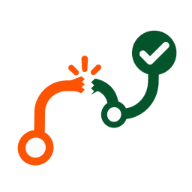
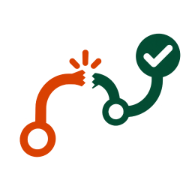
chore: refresh dbt rescue brand assets

diff --git a/src/metadata.test.ts b/src/metadata.test.ts
@@ -1,6 +1,8 @@
 // @ts-expect-error Vitest runs this host-only test under Node; the app build has no Node types.
 import { existsSync, readFileSync } from 'node:fs'
 // @ts-expect-error Vitest runs this host-only test under Node; the app build has no Node types.
+import { createHash } from 'node:crypto'
+// @ts-expect-error Vitest runs this host-only test under Node; the app build has no Node types.
 import { resolve } from 'node:path'
 import { describe, expect, it } from 'vitest'
 
@@ -10,6 +12,10 @@ const manifest = existsSync(manifestPath) ? readFileSync(manifestPath, 'utf8') :
 
 function countOccurrences(value: string, pattern: string) {
   return value.match(new RegExp(pattern, 'g'))?.length ?? 0
+}
+
+function sha256(asset: string) {
+  return createHash('sha256').update(readFileSync(resolve(asset))).digest('hex')
 }
 
 describe('public identity metadata', () => {
@@ -38,8 +44,17 @@ describe('public identity metadata', () => {
       'public/apple-touch-icon.png',
       'public/android-chrome-192x192.png',
       'public/android-chrome-512x512.png',
+      'public/logo.png',
       'public/dbt-rescue-social-preview.svg',
     ]) expect(existsSync(resolve(asset))).toBe(true)
+
[7 lines of base64/hex data omitted]
 
     expect(manifest).toContain('"name": "Paisa Kahan Atka? — DBT Rescue"')
     expect(manifest).toContain('"start_url": "/"')

diff --git a/src/App.tsx b/src/App.tsx
@@ -163,7 +163,7 @@ export default function App() {
 
   return <div className="app-shell">
     <header className="topbar">
-      <div className="brand-lockup"><img className="brand-mark" src="/dbt-rescue-icon-with-background.svg" alt="DBT Rescue logo" width="48" height="48" /><div><p className="brand-kicker">{t(language, 'brandKicker')}</p><h1>{t(language, 'title')}</h1></div></div>
+      <div className="brand-lockup"><img className="brand-mark" src="/logo.png" alt="DBT Rescue logo" width="48" height="48" /><div><p className="brand-kicker">{t(language, 'brandKicker')}</p><h1>{t(language, 'title')}</h1></div></div>
       <div className="topbar-actions">
         <LanguageToggle language={language} onChange={changeLanguage} />
         <ModeToggle language={language} assisted={assisted} onChange={toggleAssisted} />

diff --git a/src/App.test.tsx b/src/App.test.tsx
@@ -21,7 +21,7 @@ describe('DBT Rescue safe entry point', () => {
     expect(html).toContain('English')
     expect(html).toContain('हिन्दी')
     expect(html).toContain('Use assisted mode')
-    expect(html).toContain('src="/dbt-rescue-icon-with-background.svg"')
+    expect(html).toContain('src="/logo.png"')
     expect(html).toContain('alt="DBT Rescue logo"')
     expect(html).toContain('aria-live="polite"')
   })

diff --git a/docs/dependencies-and-assets.md b/docs/dependencies-and-assets.md
@@ -35,7 +35,7 @@ Exact resolved versions are recorded in `bun.lock`.
 
 ## Assets and data
 
-- The application uses only local visual assets: the builder-provided DBT Rescue logo and favicon set in `public/`, plus the repository-authored social preview SVG. No remote image, font, icon, audio, or video request is made at runtime.
+- The application uses only local visual assets: the builder-provided `public/logo.png` logo and favicon set, plus the repository-authored social preview SVG. No remote image, font, icon, audio, or video request is made at runtime.
 - All beneficiary, payment, bank, status, and acknowledgement values are fictional fixtures created for this prototype.
 - No live API, remote model, analytics, or third-party data source is used at runtime.
 
@@ -68,6 +68,6 @@ Exact resolved versions are recorded in `bun.lock`.
 
 | Introduced item | Source | Licence/status |
 |---|---|---|
-| DBT Rescue logo and favicon set | Builder-provided local assets copied from `assets/favicon_io/` and the supplied logo into `public/` | User-provided project asset; no runtime request; permission status remains the builder's responsibility |
+| DBT Rescue logo and favicon set | Builder-provided local assets copied from `assets/logo.png` and `assets/favicon_io/` into `public/` | User-provided project asset; no runtime request; permission status remains the builder's responsibility |
 | Social preview | Repository-authored `public/dbt-rescue-social-preview.svg` using the existing orange and green brand marks and fictional safety wording | Project code and design; no citizen data or official emblem |
 | Native metadata and manifest | Repository-authored `index.html` and `public/site.webmanifest` | Project code; no metadata dependency |
